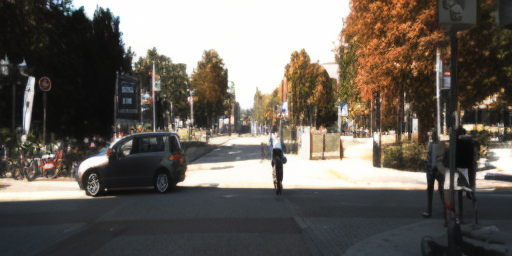
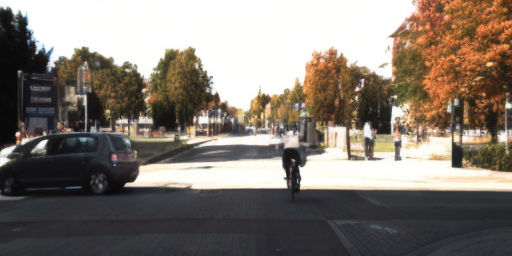
Correct qualitative baselines at matched resolution

diff --git a/docs/index.html b/docs/index.html
@@ -76,14 +76,14 @@
   <section class="section comparison-section" id="comparison">
     <div class="wrap">
       <div class="section-heading"><span>04</span><h2>Visual comparison</h2></div>
-      <p class="lead">RADIC retains scene structure and fine details more faithfully across the three manuscript examples at comparable bitrates.</p>
+      <p class="lead">Reconstruction quality at comparable ultra-low bitrates on the three manuscript examples.</p>
       <div class="comparison-grid">
         <article class="comparison-card panel" data-comparison-card data-scene="general3">
           <h3>KITTI General <span>Sample 3</span></h3>
           <div class="compare-stage">
             <img class="compare-image compare-right" src="assets/compare_general3_radic.png" alt="RADIC reconstruction for KITTI General sample 3">
             <div class="compare-left"><img class="compare-image compare-baseline-image" src="assets/compare_general3_mdic.png" alt="MDIC reconstruction for KITTI General sample 3"></div>
-            <div class="compare-label left compare-baseline-label">MDIC<br><span>0.0539 bpp &middot; LPIPS 0.2386</span></div>
+            <div class="compare-label left compare-baseline-label">MDIC<br><span>0.0329 bpp &middot; LPIPS 0.2403</span></div>
             <div class="compare-label right">RADIC<br><span>0.0484 bpp &middot; LPIPS 0.1979</span></div>
             <div class="compare-divider" aria-hidden="true"><span>&harr;</span></div>
             <input class="compare-range" type="range" min="0" max="100" value="50" aria-label="Compare baseline and RADIC for KITTI General sample 3">
@@ -98,7 +98,7 @@
           <div class="compare-stage">
             <img class="compare-image compare-right" src="assets/compare_instereo8_radic.png" alt="RADIC reconstruction for InStereo2K sample 8">
             <div class="compare-left"><img class="compare-image compare-baseline-image" src="assets/compare_instereo8_mdic.png" alt="MDIC reconstruction for InStereo2K sample 8"></div>
-            <div class="compare-label left compare-baseline-label">MDIC<br><span>0.0518 bpp &middot; LPIPS 0.1779</span></div>
+            <div class="compare-label left compare-baseline-label">MDIC<br><span>0.0363 bpp &middot; LPIPS 0.1511</span></div>
             <div class="compare-label right">RADIC<br><span>0.0463 bpp &middot; LPIPS 0.1533</span></div>
             <div class="compare-divider" aria-hidden="true"><span>&harr;</span></div>
             <input class="compare-range" type="range" min="0" max="100" value="50" aria-label="Compare baseline and RADIC for InStereo2K sample 8">
@@ -113,7 +113,7 @@
           <div class="compare-stage">
             <img class="compare-image compare-right" src="assets/compare_instereo47_radic.png" alt="RADIC reconstruction for InStereo2K sample 47">
             <div class="compare-left"><img class="compare-image compare-baseline-image" src="assets/compare_instereo47_mdic.png" alt="MDIC reconstruction for InStereo2K sample 47"></div>
-            <div class="compare-label left compare-baseline-label">MDIC<br><span>0.0491 bpp &middot; LPIPS 0.2435</span></div>
+            <div class="compare-label left compare-baseline-label">MDIC<br><span>0.0376 bpp &middot; LPIPS 0.2129</span></div>
             <div class="compare-label right">RADIC<br><span>0.0533 bpp &middot; LPIPS 0.1865</span></div>
             <div class="compare-divider" aria-hidden="true"><span>&harr;</span></div>
             <input class="compare-range" type="range" min="0" max="100" value="50" aria-label="Compare baseline and RADIC for InStereo2K sample 47">
@@ -164,8 +164,8 @@
             <figure><img src="assets/qual_general3_gt.png" alt="Ground truth for KITTI General sample 3"><figcaption>Ground truth</figcaption></figure>
             <figure><img src="assets/compare_general3_camsic.png" alt="CAMSIC reconstruction for KITTI General sample 3"><figcaption>CAMSIC<span class="qual-metrics"><span><em>Bpp</em><b>0.0518</b></span><span><em>PSNR</em><b>23.49 dB</b></span><span><em>LPIPS</em><b>0.4201</b></span></span></figcaption></figure>
             <figure><img src="assets/compare_general3_ndsc.png" alt="NDSC reconstruction for KITTI General sample 3"><figcaption>NDSC<span class="qual-metrics"><span><em>Bpp</em><b>0.0625</b></span><span><em>PSNR</em><b>23.66 dB</b></span><span><em>LPIPS</em><b>0.3414</b></span></span></figcaption></figure>
-            <figure><img src="assets/compare_general3_mdic.png" alt="MDIC reconstruction for KITTI General sample 3"><figcaption>MDIC<span class="qual-metrics"><span><em>Bpp</em><b>0.0539</b></span><span><em>PSNR</em><b>19.27 dB</b></span><span><em>LPIPS</em><b>0.2386</b></span></span></figcaption></figure>
-            <figure><img src="assets/compare_general3_resulic.png" alt="ResULIC reconstruction for KITTI General sample 3"><figcaption>ResULIC<span class="qual-metrics"><span><em>Bpp</em><b>0.0611</b></span><span><em>PSNR</em><b>18.79 dB</b></span><span><em>LPIPS</em><b>0.2591</b></span></span></figcaption></figure>
+            <figure><img src="assets/compare_general3_mdic.png" alt="MDIC reconstruction for KITTI General sample 3"><figcaption>MDIC<span class="qual-metrics"><span><em>Bpp</em><b>0.0329</b></span><span><em>PSNR</em><b>20.65 dB</b></span><span><em>LPIPS</em><b>0.2403</b></span></span></figcaption></figure>
+            <figure><img src="assets/compare_general3_resulic.png" alt="ResULIC reconstruction for KITTI General sample 3"><figcaption>ResULIC<span class="qual-metrics"><span><em>Bpp</em><b>0.0732</b></span><span><em>PSNR</em><b>19.74 dB</b></span><span><em>LPIPS</em><b>0.2675</b></span></span></figcaption></figure>
             <figure class="featured"><img src="assets/compare_general3_radic.png" alt="RADIC reconstruction for KITTI General sample 3"><figcaption>RADIC<span class="qual-metrics"><span><em>Bpp</em><b>0.0484</b></span><span><em>PSNR</em><b>22.36 dB</b></span><span><em>LPIPS</em><b>0.1979</b></span></span></figcaption></figure>
           </div>
         </section>
@@ -176,8 +176,8 @@
             <figure><img src="assets/qual_stereo2_gt.png" alt="Ground truth for KITTI Stereo sample 2"><figcaption>Ground truth</figcaption></figure>
             <figure><img src="assets/qual_stereo2_camsic.png" alt="CAMSIC reconstruction for KITTI Stereo sample 2"><figcaption>CAMSIC<span class="qual-metrics"><span><em>Bpp</em><b>0.0499</b></span><span><em>PSNR</em><b>25.48 dB</b></span><span><em>LPIPS</em><b>0.4345</b></span></span></figcaption></figure>
             <figure><img src="assets/qual_stereo2_ndsc.png" alt="NDSC reconstruction for KITTI Stereo sample 2"><figcaption>NDSC<span class="qual-metrics"><span><em>Bpp</em><b>0.0625</b></span><span><em>PSNR</em><b>25.89 dB</b></span><span><em>LPIPS</em><b>0.3947</b></span></span></figcaption></figure>
-            <figure><img src="assets/qual_stereo2_mdic.png" alt="MDIC reconstruction for KITTI Stereo sample 2"><figcaption>MDIC<span class="qual-metrics"><span><em>Bpp</em><b>0.0583</b></span><span><em>PSNR</em><b>21.06 dB</b></span><span><em>LPIPS</em><b>0.2399</b></span></span></figcaption></figure>
-            <figure><img src="assets/qual_stereo2_resulic.png" alt="ResULIC reconstruction for KITTI Stereo sample 2"><figcaption>ResULIC<span class="qual-metrics"><span><em>Bpp</em><b>0.0726</b></span><span><em>PSNR</em><b>21.88 dB</b></span><span><em>LPIPS</em><b>0.2342</b></span></span></figcaption></figure>
+            <figure><img src="assets/qual_stereo2_mdic.png" alt="MDIC reconstruction for KITTI Stereo sample 2"><figcaption>MDIC<span class="qual-metrics"><span><em>Bpp</em><b>0.0383</b></span><span><em>PSNR</em><b>22.74 dB</b></span><span><em>LPIPS</em><b>0.2371</b></span></span></figcaption></figure>
+            <figure><img src="assets/qual_stereo2_resulic.png" alt="ResULIC reconstruction for KITTI Stereo sample 2"><figcaption>ResULIC<span class="qual-metrics"><span><em>Bpp</em><b>0.0755</b></span><span><em>PSNR</em><b>21.88 dB</b></span><span><em>LPIPS</em><b>0.2342</b></span></span></figcaption></figure>
             <figure class="featured"><img src="assets/qual_stereo2_radic.png" alt="RADIC reconstruction for KITTI Stereo sample 2"><figcaption>RADIC<span class="qual-metrics"><span><em>Bpp</em><b>0.0496</b></span><span><em>PSNR</em><b>23.69 dB</b></span><span><em>LPIPS</em><b>0.1955</b></span></span></figcaption></figure>
           </div>
         </section>
@@ -188,7 +188,7 @@
             <figure><img src="assets/qual_instereo8_gt.png" alt="Ground truth for InStereo2K sample 8"><figcaption>Ground truth</figcaption></figure>
             <figure><img src="assets/compare_instereo8_camsic.png" alt="CAMSIC reconstruction for InStereo2K sample 8"><figcaption>CAMSIC<span class="qual-metrics"><span><em>Bpp</em><b>0.0480</b></span><span><em>PSNR</em><b>28.87 dB</b></span><span><em>LPIPS</em><b>0.4272</b></span></span></figcaption></figure>
             <figure><img src="assets/compare_instereo8_ndsc.png" alt="NDSC reconstruction for InStereo2K sample 8"><figcaption>NDSC<span class="qual-metrics"><span><em>Bpp</em><b>0.0625</b></span><span><em>PSNR</em><b>29.89 dB</b></span><span><em>LPIPS</em><b>0.3548</b></span></span></figcaption></figure>
-            <figure><img src="assets/compare_instereo8_mdic.png" alt="MDIC reconstruction for InStereo2K sample 8"><figcaption>MDIC<span class="qual-metrics"><span><em>Bpp</em><b>0.0518</b></span><span><em>PSNR</em><b>27.14 dB</b></span><span><em>LPIPS</em><b>0.1779</b></span></span></figcaption></figure>
+            <figure><img src="assets/compare_instereo8_mdic.png" alt="MDIC reconstruction for InStereo2K sample 8"><figcaption>MDIC<span class="qual-metrics"><span><em>Bpp</em><b>0.0363</b></span><span><em>PSNR</em><b>30.27 dB</b></span><span><em>LPIPS</em><b>0.1511</b></span></span></figcaption></figure>
             <figure><img src="assets/compare_instereo8_resulic.png" alt="ResULIC reconstruction for InStereo2K sample 8"><figcaption>ResULIC<span class="qual-metrics"><span><em>Bpp</em><b>0.0673</b></span><span><em>PSNR</em><b>27.87 dB</b></span><span><em>LPIPS</em><b>0.1987</b></span></span></figcaption></figure>
             <figure class="featured"><img src="assets/compare_instereo8_radic.png" alt="RADIC reconstruction for InStereo2K sample 8"><figcaption>RADIC<span class="qual-metrics"><span><em>Bpp</em><b>0.0463</b></span><span><em>PSNR</em><b>30.00 dB</b></span><span><em>LPIPS</em><b>0.1533</b></span></span></figcaption></figure>
           </div>
@@ -200,7 +200,7 @@
             <figure><img src="assets/qual_gt.png" alt="Ground truth for InStereo2K sample 47"><figcaption>Ground truth</figcaption></figure>
             <figure><img src="assets/qual_camsic.png" alt="CAMSIC reconstruction for InStereo2K sample 47"><figcaption>CAMSIC<span class="qual-metrics"><span><em>Bpp</em><b>0.0680</b></span><span><em>PSNR</em><b>23.22 dB</b></span><span><em>LPIPS</em><b>0.5953</b></span></span></figcaption></figure>
             <figure><img src="assets/qual_ndsc.png" alt="NDSC reconstruction for InStereo2K sample 47"><figcaption>NDSC<span class="qual-metrics"><span><em>Bpp</em><b>0.0625</b></span><span><em>PSNR</em><b>23.36 dB</b></span><span><em>LPIPS</em><b>0.5194</b></span></span></figcaption></figure>
-            <figure><img src="assets/qual_mdic.png" alt="MDIC reconstruction for InStereo2K sample 47"><figcaption>MDIC<span class="qual-metrics"><span><em>Bpp</em><b>0.0491</b></span><span><em>PSNR</em><b>23.32 dB</b></span><span><em>LPIPS</em><b>0.2435</b></span></span></figcaption></figure>
+            <figure><img src="assets/qual_mdic.png" alt="MDIC reconstruction for InStereo2K sample 47"><figcaption>MDIC<span class="qual-metrics"><span><em>Bpp</em><b>0.0376</b></span><span><em>PSNR</em><b>22.61 dB</b></span><span><em>LPIPS</em><b>0.2129</b></span></span></figcaption></figure>
             <figure><img src="assets/qual_resulic.png" alt="ResULIC reconstruction for InStereo2K sample 47"><figcaption>ResULIC<span class="qual-metrics"><span><em>Bpp</em><b>0.0806</b></span><span><em>PSNR</em><b>20.87 dB</b></span><span><em>LPIPS</em><b>0.2706</b></span></span></figcaption></figure>
             <figure class="featured"><img src="assets/qual_radic.png" alt="RADIC reconstruction for InStereo2K sample 47"><figcaption>RADIC<span class="qual-metrics"><span><em>Bpp</em><b>0.0473</b></span><span><em>PSNR</em><b>22.00 dB</b></span><span><em>LPIPS</em><b>0.1865</b></span></span></figcaption></figure>
           </div>

diff --git a/docs/script.js b/docs/script.js
@@ -28,16 +28,16 @@ const comparisonScenes = {
   general3: {
     name: "KITTI General sample 3",
     methods: {
-      mdic: ["MDIC", "0.0539", "0.2386"],
+      mdic: ["MDIC", "0.0329", "0.2403"],
       ndsc: ["NDSC", "0.0625", "0.3414"],
-      resulic: ["ResULIC", "0.0611", "0.2591"],
+      resulic: ["ResULIC", "0.0732", "0.2675"],
       gt: ["Ground truth", null, null, "assets/qual_general3_gt.png"]
     }
   },
   instereo8: {
     name: "InStereo2K sample 8",
     methods: {
-      mdic: ["MDIC", "0.0518", "0.1779"],
+      mdic: ["MDIC", "0.0363", "0.1511"],
       ndsc: ["NDSC", "0.0625", "0.3548"],
       resulic: ["ResULIC", "0.0673", "0.1987"],
       gt: ["Ground truth", null, null, "assets/qual_instereo8_gt.png"]
@@ -46,7 +46,7 @@ const comparisonScenes = {
   instereo47: {
     name: "InStereo2K sample 47",
     methods: {
-      mdic: ["MDIC", "0.0491", "0.2435"],
+      mdic: ["MDIC", "0.0376", "0.2129"],
       ndsc: ["NDSC", "0.0625", "0.5194"],
       resulic: ["ResULIC", "0.0806", "0.2706"],
       gt: ["Ground truth", null, null, "assets/qual_gt.png"]
